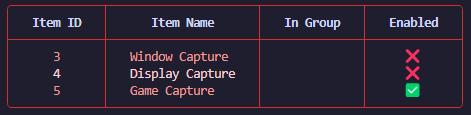
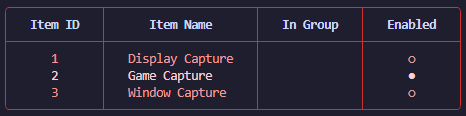
replace emoji-style tick/cross + N/A with cleaner symbols.
update screenshots.

diff --git a/input.go b/input.go
@@ -131,7 +131,7 @@ func (cmd *InputListCmd) Run(ctx *context) error {
 		)
 		if err != nil {
 			if err.Error() == "request GetInputMute: InvalidResourceState (604): The specified input does not support audio." {
-				muteMark = "N/A"
+				muteMark = "—"
 			} else {
 				return fmt.Errorf("failed to get input mute state: %w", err)
 			}

diff --git a/util.go b/util.go
@@ -24,12 +24,12 @@ func getEnabledMark(enabled bool) string {
 		if os.Getenv("NO_COLOR") != "" { // nolint: misspell
 			return "✓"
 		}
-		return "✅"
+		return "●"
 	}
 	if os.Getenv("NO_COLOR") != "" { // nolint: misspell
 		return "✗"
 	}
-	return "❌"
+	return "○"
 }
 
 func trimPrefix(s, prefix string) string {
